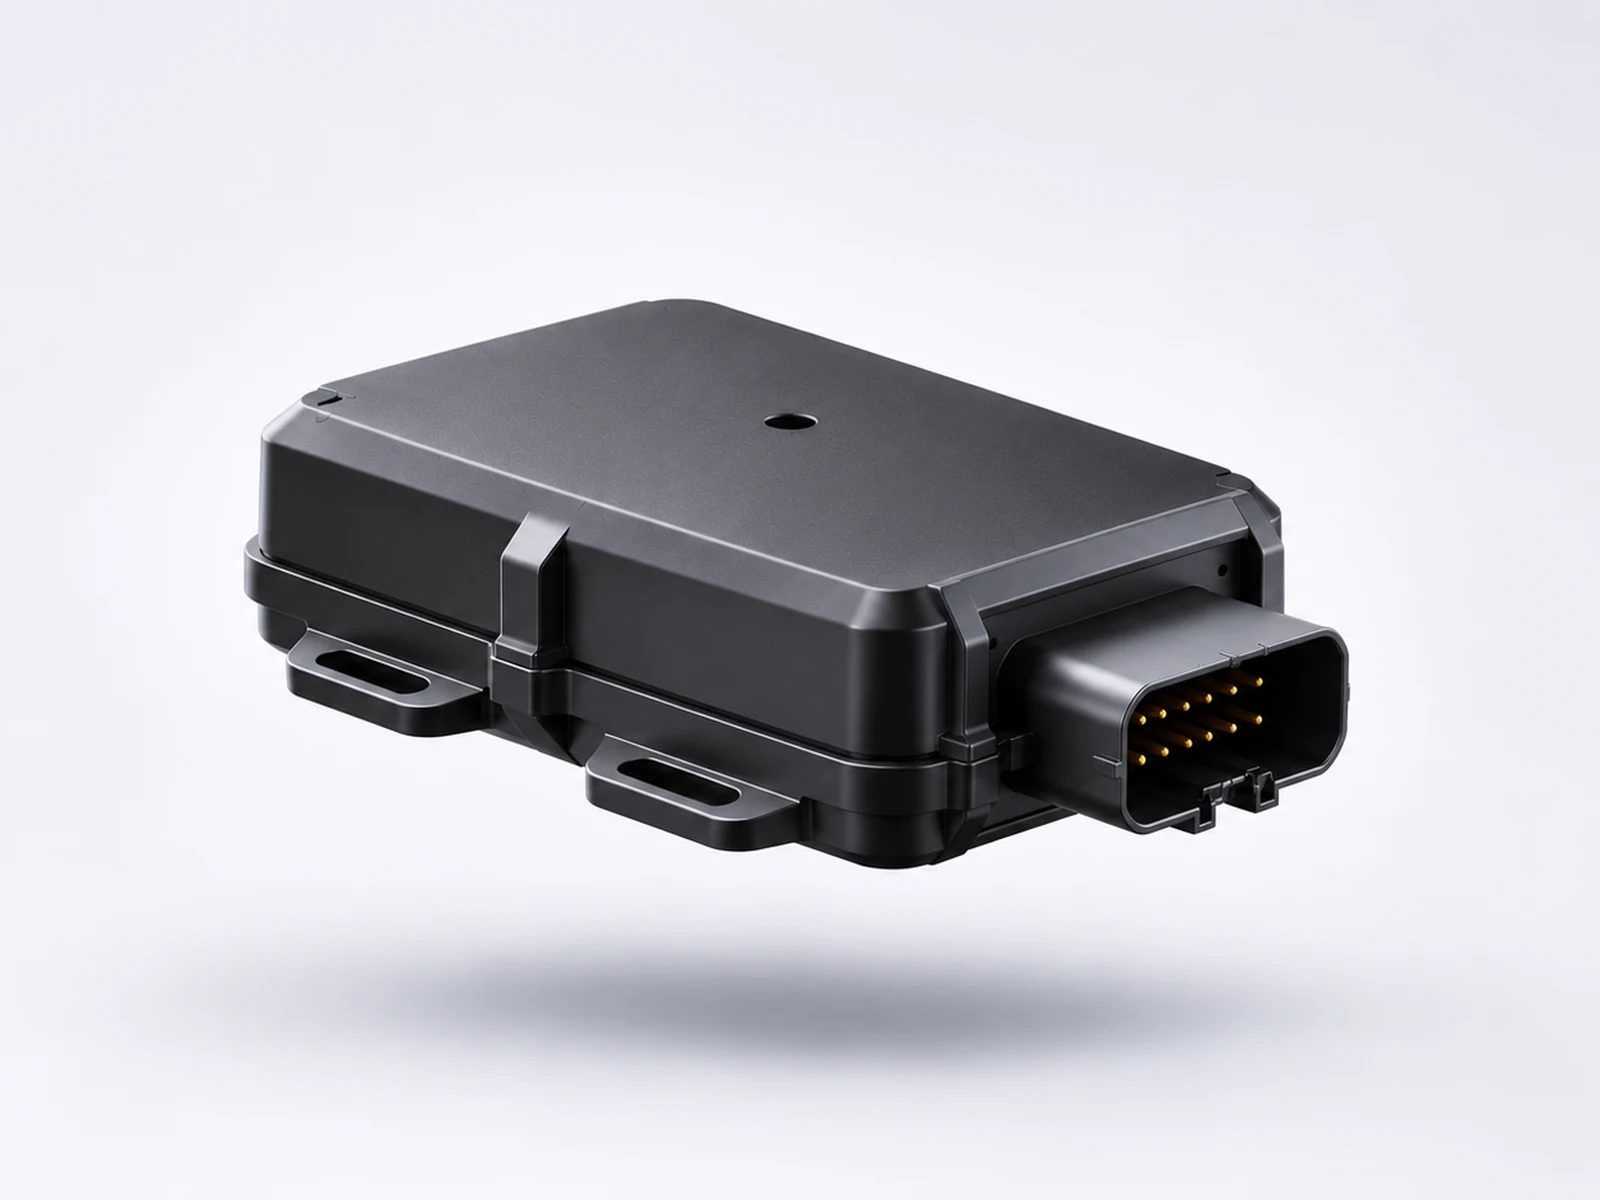
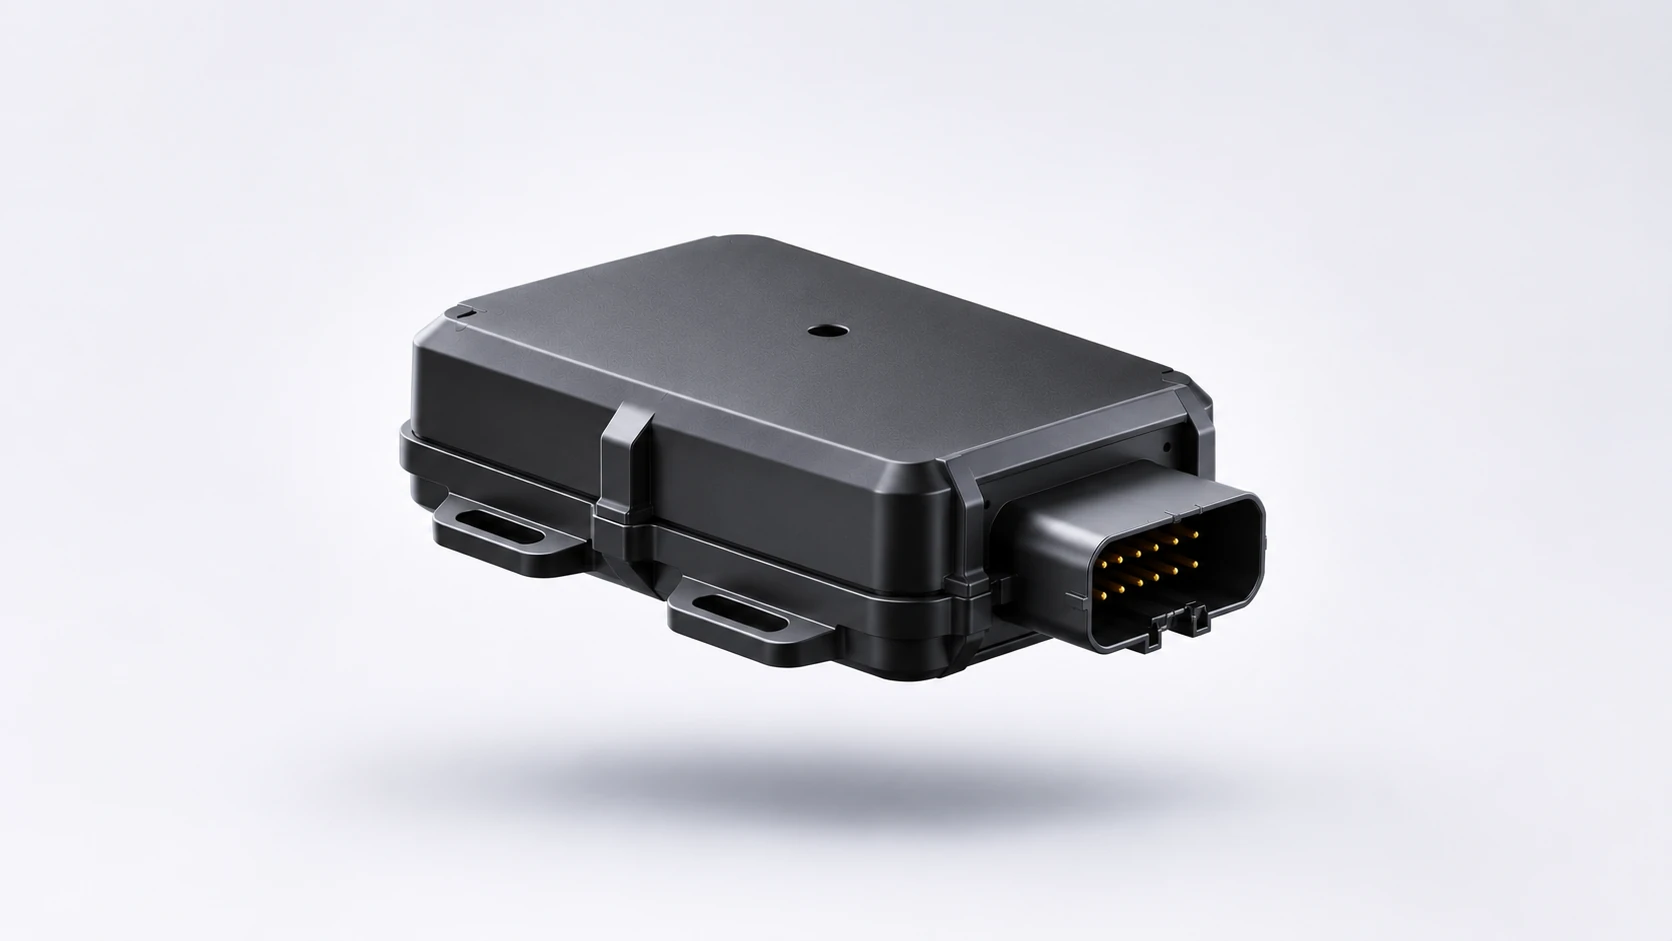
How it works: Apple-style tile gallery with huge headline and full-width images
Claude-Session: https://claude.ai/code/session_019hg5JKm3Ajc1VUuZ1vD315

Changed region(s): [[0.125, 0.2465, 0.8438, 0.7396], [0.6875, 0.8321, 0.7812, 0.8629], [0.5, 0.2774, 0.5625, 0.3082]]

diff --git a/index.html b/index.html
@@ -270,9 +270,35 @@ p,h1,h2,h3,ul{margin:0}
 .rows p{color:var(--mute);font-size:1rem;max-width:34ch}
 .rows.three{grid-template-columns:repeat(3,minmax(0,1fr))}
 /* how it works: an image holder under each step, bottoms aligned */
-#how .rows,#does .rows{row-gap:48px}
-#how .rows > div,#does .rows > div{display:flex;flex-direction:column;gap:10px}
-#how .rows p,#does .rows p{margin-bottom:22px}
+/* how it works: Apple-style tile gallery */
+.hw{background:var(--ink);color:#fff;padding-block:clamp(96px,11vw,176px) clamp(80px,9vw,140px);overflow:hidden}
+.hw-head{margin-bottom:clamp(40px,5vw,80px)}
+.hw-head .label{color:var(--teal)}
+.hw-h{margin:18px 0 0;font-family:var(--f-head);font-weight:800;text-transform:uppercase;font-size:clamp(2.6rem,6vw,6rem);line-height:.98;letter-spacing:-.03em;max-width:none;text-wrap:balance}
+.hw-track{--pad:max(24px,calc((100vw - var(--wrap)) / 2 + 24px));display:flex;gap:clamp(14px,1.6vw,24px);overflow-x:auto;overscroll-behavior-x:contain;scroll-snap-type:x mandatory;scroll-padding-inline:var(--pad);padding:4px var(--pad) 8px;scrollbar-width:none;outline:none}
+.hw-track::-webkit-scrollbar{display:none}
+.hw-tile{flex:0 0 min(76vw,1080px);scroll-snap-align:start;display:flex;flex-direction:column;border-radius:32px;overflow:hidden;background:#EEEEF2;color:#0B1A1C;isolation:isolate}
+.hw-text{position:relative;z-index:1;padding:clamp(28px,3.4vw,56px) clamp(28px,3.6vw,60px) 0}
+.hw-n{display:block;font-size:.8rem;font-weight:700;letter-spacing:.16em;color:var(--teal-deep)}
+.hw-t{margin:12px 0 0;font-family:var(--f-head);font-weight:800;text-transform:uppercase;font-size:clamp(2.2rem,5vw,4.6rem);line-height:.95;letter-spacing:-.03em}
+.hw-d{margin:14px 0 0;max-width:30ch;font-size:clamp(1.02rem,1.35vw,1.3rem);line-height:1.45;font-weight:500;color:#56686A}
+#how .hw-pic{aspect-ratio:16/9;margin-top:clamp(-40px,-2vw,-12px);border-radius:0;background:transparent;-webkit-mask-image:linear-gradient(180deg,transparent 0,#000 16%);mask-image:linear-gradient(180deg,transparent 0,#000 16%)}
+#how .hw-pic > .photo,#how .hw-pic > .default-pic .photo{transition:transform 1.4s cubic-bezier(.2,.7,.2,1)}
+@media (hover:hover){#how .hw-tile:hover .hw-pic .photo{transform:scale(1.03)}}
+.hw-nav{display:flex;justify-content:flex-end;gap:12px;margin-top:clamp(20px,2.4vw,32px)}
+.hw-btn{width:48px;height:48px;border-radius:50%;border:0;display:grid;place-items:center;background:rgba(255,255,255,.12);color:#fff;cursor:pointer;transition:background-color .25s ease,opacity .25s ease}
+.hw-btn svg{width:20px;height:20px;fill:none;stroke:currentColor;stroke-width:2;stroke-linecap:round;stroke-linejoin:round}
+.hw-btn:hover:not(:disabled){background:rgba(255,255,255,.22)}
+.hw-btn:disabled{opacity:.35;cursor:default}
+.hw-btn:focus-visible,.hw-track:focus-visible{outline:2px solid var(--teal);outline-offset:3px}
+.hw.js .hw-head > *,.hw.js .hw-tile{opacity:0;transform:translateY(28px);transition:opacity 1s cubic-bezier(.2,.7,.2,1),transform 1s cubic-bezier(.2,.7,.2,1)}
+.hw.js .hw-h{transition-delay:.08s}.hw.js .hw-tile{transition-delay:calc(.2s + var(--i) * .12s)}
+.hw.js.in .hw-head > *,.hw.js.in .hw-tile{opacity:1;transform:none}
+@media (prefers-reduced-motion:reduce){.hw *{transition:none!important}}
+@media (max-width:767px){.hw-tile{flex-basis:86vw;border-radius:24px}.hw-text{padding:26px 22px 0}.hw-nav{display:none}.hw-h{font-size:clamp(2.2rem,11vw,3.4rem)}}
+#does .rows{row-gap:48px}
+#does .rows > div{display:flex;flex-direction:column;gap:10px}
+#does .rows p{margin-bottom:22px}
 .step-pic{position:relative;overflow:hidden;aspect-ratio:4/3;margin-top:auto;background:var(--ink-2);border-radius:16px}
 .step-pic > canvas,.step-pic > .photo{position:absolute;inset:0;width:100%;height:100%;object-fit:cover}
 .step-pic.has-media > canvas{display:none}
@@ -942,19 +968,45 @@ p,h1,h2,h3,ul{margin:0}
     </div>
   </section>
 
-  <section id="how" class="sec" data-sec="How it works" data-sid="how" aria-labelledby="how-title">
-    <div class="wrap">
-      <div class="sec-head">
-        <p class="label" data-k="how.label" data-l="Small label">How it works</p>
-        <h2 id="how-title" class="h-sec" data-k="how.title" data-l="Headline">Simple to start. Smart from day one.</h2>
-      </div>
-      <div class="rows three">
-        <div><span class="step-n">01</span><h3 class="h-item" data-k="how.1.t" data-l="Step 1 title">Connect.</h3><p data-k="how.1.d" data-l="Step 1 text">Fit the Explorer device, or link the trackers you already use.</p><div class="step-pic has-media" data-slot="how1" data-slot-l="Step 1 image" data-default-media="images/how-connect.webp"><canvas data-seed="3121" aria-hidden="true"></canvas><picture class="default-pic"><img class="photo" src="images/how-connect.webp?v=2" alt="The black Canopy Explorer device floating above a light surface, its wiring connector facing out" width="1600" height="1200" loading="lazy"></picture></div></div>
-        <div><span class="step-n">02</span><h3 class="h-item" data-k="how.2.t" data-l="Step 2 title">See.</h3><p data-k="how.2.d" data-l="Step 2 text">Every vehicle and every battery, live on one map, on web and mobile.</p><div class="step-pic has-media" data-slot="how2" data-slot-l="Step 2 image" data-default-media="images/how-see.webp"><canvas data-seed="3242" aria-hidden="true"></canvas><picture class="default-pic"><img class="photo" src="images/how-see.webp?v=2" alt="A laptop showing the Canopy live map, with vehicle pins and a short list of vehicles" width="1600" height="1200" loading="lazy"></picture></div></div>
-        <div><span class="step-n">03</span><h3 class="h-item" data-k="how.3.t" data-l="Step 3 title">Act.</h3><p data-k="how.3.d" data-l="Step 3 text">Get alerts, ask questions in plain words, and stop a vehicle safely.</p><div class="step-pic has-media" data-slot="how3" data-slot-l="Step 3 image" data-default-media="images/how-act.webp"><canvas data-seed="3363" aria-hidden="true"></canvas><picture class="default-pic"><img class="photo" src="images/how-act.webp?v=2" alt="The Explorer device beside a phone showing the Canopy lock control and a route on a map" width="1600" height="1200" loading="lazy"></picture></div></div>
-      </div>
+  <!-- How it works: Apple-style tile gallery. Big headline, three large swipeable tiles; images stay editable (how1–how3) -->
+  <section id="how" class="hw" data-sec="How it works" data-sid="how" aria-labelledby="how-title">
+    <div class="wrap hw-head">
+      <p class="label" data-k="how.label" data-l="Small label">How it works</p>
+      <h2 id="how-title" class="hw-h" data-k="how.title" data-l="Headline">Simple to start. Smart from day one.</h2>
+    </div>
+    <div class="hw-track" tabindex="0" aria-label="Three steps">
+        <article class="hw-tile" style="--i:0">
+          <div class="hw-text"><span class="hw-n">01</span><h3 class="hw-t" data-k="how.1.t" data-l="Step 1 title">Connect.</h3><p class="hw-d" data-k="how.1.d" data-l="Step 1 text">Fit the Explorer device, or link the trackers you already use.</p></div>
+          <div class="step-pic hw-pic has-media" data-slot="how1" data-slot-l="Step 1 image" data-default-media="images/how-connect.webp"><canvas data-seed="3121" aria-hidden="true"></canvas><picture class="default-pic"><img class="photo" src="images/how-connect.webp?v=3" alt="The black Canopy Explorer device floating above a light surface, its wiring connector facing out" width="1672" height="941" loading="lazy"></picture></div>
+        </article>
+        <article class="hw-tile" style="--i:1">
+          <div class="hw-text"><span class="hw-n">02</span><h3 class="hw-t" data-k="how.2.t" data-l="Step 2 title">See.</h3><p class="hw-d" data-k="how.2.d" data-l="Step 2 text">Every vehicle and every battery, live on one map, on web and mobile.</p></div>
+          <div class="step-pic hw-pic has-media" data-slot="how2" data-slot-l="Step 2 image" data-default-media="images/how-see.webp"><canvas data-seed="3242" aria-hidden="true"></canvas><picture class="default-pic"><img class="photo" src="images/how-see.webp?v=3" alt="A laptop showing the Canopy live map, with vehicle pins and a short list of vehicles" width="1672" height="941" loading="lazy"></picture></div>
+        </article>
+        <article class="hw-tile" style="--i:2">
+          <div class="hw-text"><span class="hw-n">03</span><h3 class="hw-t" data-k="how.3.t" data-l="Step 3 title">Act.</h3><p class="hw-d" data-k="how.3.d" data-l="Step 3 text">Get alerts, ask questions in plain words, and stop a vehicle safely.</p></div>
+          <div class="step-pic hw-pic has-media" data-slot="how3" data-slot-l="Step 3 image" data-default-media="images/how-act.webp"><canvas data-seed="3363" aria-hidden="true"></canvas><picture class="default-pic"><img class="photo" src="images/how-act.webp?v=3" alt="The Explorer device beside a phone showing the Canopy lock control and a route on a map" width="1672" height="941" loading="lazy"></picture></div>
+        </article>
+    </div>
+    <div class="wrap hw-nav">
+      <button type="button" class="hw-btn" data-dir="-1" aria-label="Previous step"><svg viewBox="0 0 24 24" aria-hidden="true"><path d="M15 5l-7 7 7 7"/></svg></button>
+      <button type="button" class="hw-btn" data-dir="1" aria-label="Next step"><svg viewBox="0 0 24 24" aria-hidden="true"><path d="M9 5l7 7-7 7"/></svg></button>
     </div>
   </section>
+  <script>
+  (function(){
+    var sec=document.getElementById('how');if(!sec)return;
+    var tr=sec.querySelector('.hw-track'),tiles=[].slice.call(tr.querySelectorAll('.hw-tile')),btns=sec.querySelectorAll('.hw-btn');
+    var rm=window.matchMedia('(prefers-reduced-motion: reduce)');
+    function step(){return tiles.length>1?tiles[1].offsetLeft-tiles[0].offsetLeft:tr.clientWidth}
+    function upd(){var max=tr.scrollWidth-tr.clientWidth-2;btns[0].disabled=tr.scrollLeft<=2;btns[1].disabled=tr.scrollLeft>=max}
+    [].forEach.call(btns,function(b){b.addEventListener('click',function(){tr.scrollBy({left:step()*(+b.dataset.dir),behavior:rm.matches?'auto':'smooth'})})});
+    tr.addEventListener('scroll',function(){window.requestAnimationFrame(upd)},{passive:true});window.addEventListener('resize',upd);upd();
+    sec.classList.add('js');
+    if(rm.matches||!('IntersectionObserver' in window)){sec.classList.add('in');return}
+    var io=new IntersectionObserver(function(es){if(es[0].isIntersecting){io.disconnect();sec.classList.add('in')}},{threshold:.18});io.observe(sec);
+  })();
+  </script>
 
   <!-- Explorer hardware showcase: copy left, technical illustration right (editable image / video slot) -->
   <section id="explorer" class="xs" data-sec="Explorer" data-sid="explorer" aria-labelledby="explorer-title">
